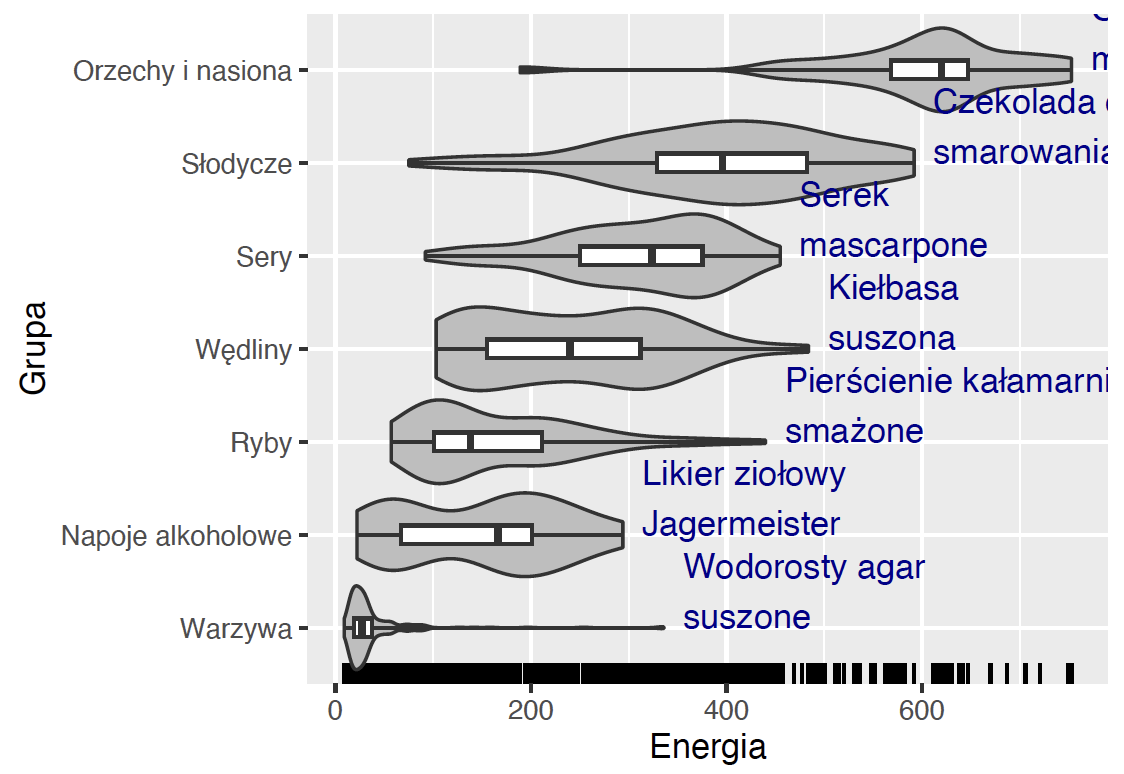
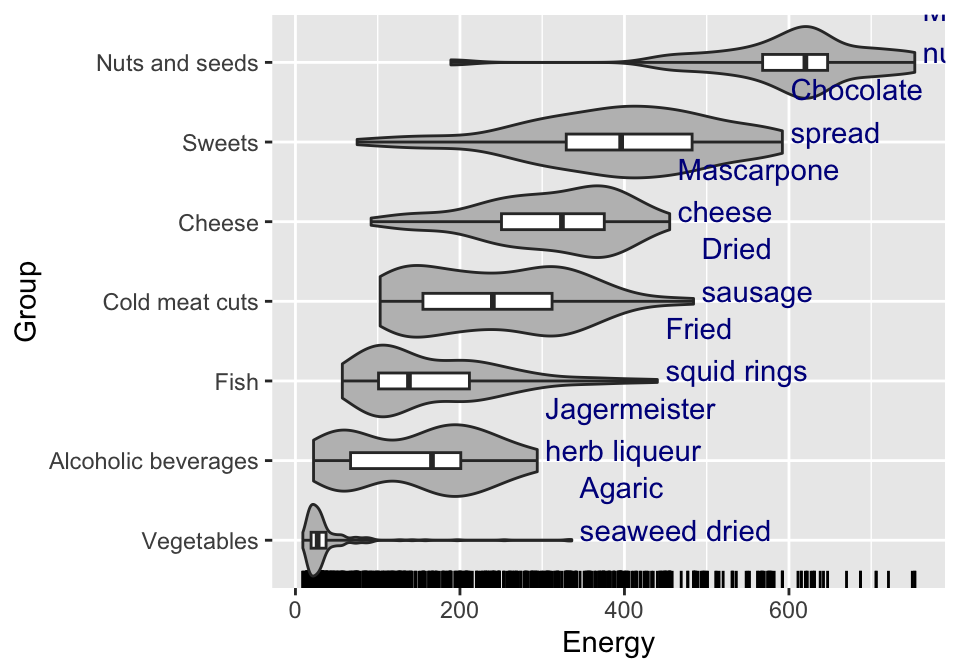
fixed last chapter - food examples are translated to English

diff --git a/docs/cherries.html b/docs/cherries.html
@@ -350,7 +350,7 @@ Neurath, Otto. 1940. <span>“Modern Man in the Making.”</span> <em>Philosophy
 </div></div><p>For more on ISOTYPE language, see the article <a href="http://smarterpoland.pl/index.php/2012/11/mlodzi-xxl-eurostat-a-problem-nadwagi-i-otylosci-odpowiedz-grafika/"><em>Młodzi XXL, Eurostat a problem nadwagi i otyłości</em></a> by Magda Malczynska-Umeda (<strong>only available in Polish</strong>).</p>
 <!-- Więcej o języku ISOTYPE można przeczytać w artykule [*Młodzi XXL, Eurostat a problem nadwagi i otyłości*](http://smarterpoland.pl/index.php/2012/11/mlodzi-xxl-eurostat-a-problem-nadwagi-i-otylosci-odpowiedz-grafika/) przygotowanym przez Magdę Małczyńską-Umeda. -->
 </section>
-<section id="tasks" class="level2 page-columns page-full" data-number="3.6">
+<section id="tasks" class="level2" data-number="3.6">
 <h2 data-number="3.6" class="anchored" data-anchor-id="tasks"><span class="header-section-number">3.6</span> Tasks</h2>
 <p>Would you like to learn more epic graphs creating data visualization stories? You just need to do the following tasks.</p>
 <ol type="1">
@@ -361,13 +361,9 @@ Neurath, Otto. 1940. <span>“Modern Man in the Making.”</span> <em>Philosophy
 <!-- 1. Jednym z ojców graficznej wizualizacji danych był William Playfair. Wynalazł on wiele pomysłowych sposobów prezentacji danych. Dzieło Playfaira zawierające te wykresy było prawdziwym bestsellerem w jego czasach. Zapoznaj się z listą różnych wykresów przedstawionych na jego stronie w [Wikipedii](https://en.wikipedia.org/wiki/William_Playfair). Który z tych wykresów uznasz za najbardziej ciekawy/przełomowy? 
 2. Jednym z najciekawszych wykresów wszech czasów jest wykres pudełkowy zaproponowany przez Johna Tukeya. W artykule [40 years of boxplots](https://vita.had.co.nz/papers/boxplots.pdf) znajduje się ciekawe omówienie różnych modyfikacji tego wykresu. Która z nich jest Twoim zdaniem najbardziej informatywna? 
 3. Bardzo oryginalnym i pomysłowym sposobem prezentacji danych jest wykres łodyga-liście. Możesz o nim przeczytać więcej na odpowiedniej stronie w [Wikipedii](https://en.wikipedia.org/wiki/Stem-and-leaf_display). Czy potrafisz powiedzieć, gdzie najczęściej jest on dzisiaj stosowany? -->
-<p>If you would like to learn more about these and other charts that have played a significant role, you may be interested in the essay <em>Perełki z historii</em> from the book <em>Odkrywać! Ujawniać! Objaśniać!</em> <span class="citation" data-cites="eseje">(<a href="references.html#ref-eseje" role="doc-biblioref">Biecek 2016</a>)</span> (<strong>only available in Polish</strong>).</p>
-<!-- Jeżeli chciałbyś dowiedzieć się więcej o tych i innych wykresach, które odegrały znaczącą rolę, to może zainteresować Cię esej *Perełki z historii* z książki *Odkrywać! Ujawniać! Objaśniać!* -->
 
 
-<div class="no-row-height column-margin column-container"><div id="ref-eseje" class="csl-entry" role="doc-biblioentry">
-Biecek, Przemysław. 2016. <em>Odkrywać! Ujawniać! Objaśniać! Zbiór Esejów o&nbsp;Sztuce Przedstawiania Danych</em>. Fundacja Naukowa SmarterPoland.pl. <a href="http://biecek.pl/Eseje/">http://biecek.pl/Eseje/</a>.
-</div></div>
+
 </section>
 
 </main> <!-- /main -->

diff --git a/docs/mutant.html b/docs/mutant.html
@@ -368,13 +368,9 @@ Tufte, Edward. 2001. <em>The Visual Display of Quantitative Information</em>. Ch
 <!-- 1. Poszukaj w znalezionym raporcie wykresu słupkowego. Czy słupki zaczynają się od zera? Czy ich długości ułatwiają szybsze zrozumienie kluczowych informacji na wykresie?
 2. Poszukaj w znalezionym raporcie wykresu kołowego. Czy wycinki koła odpowiadają częściom całości? Czy patrząc na same wycinki wykresu kołowego, łatwo jest dostrzec, jaką historię ten wykres przedstawia?
 3. Spójrz na wykres na marginesie, przedstawia on średni wzrost kobiet w różnych krajach. Czy dane przedstawione są poprawnie? Jaki jest z nimi problem? -->
-<p>If you would like to learn more about erroneous graphs distorting reality, you may be interested in the essay <em>Info-pomyłka</em> from the book <em>Odkrywać! Ujawniać! Objaśniać!</em> <span class="citation" data-cites="eseje">(<a href="references.html#ref-eseje" role="doc-biblioref">Biecek 2016</a>)</span> (<strong>only available in Polish</strong>).</p>
-<!-- Jeżeli chciałbyś dowiedzieć się więcej o błędnych wykresach zniekształcających rzeczywistość, to może zainteresować Cię esej *Info-pomyłka* z książki *Odkrywać! Ujawniać! Objaśniać!* -->
 
 
-<div class="no-row-height column-margin column-container"><div id="ref-eseje" class="csl-entry" role="doc-biblioentry">
-Biecek, Przemysław. 2016. <em>Odkrywać! Ujawniać! Objaśniać! Zbiór Esejów o&nbsp;Sztuce Przedstawiania Danych</em>. Fundacja Naukowa SmarterPoland.pl. <a href="http://biecek.pl/Eseje/">http://biecek.pl/Eseje/</a>.
-</div></div>
+
 </section>
 
 </main> <!-- /main -->

diff --git a/docs/references.html b/docs/references.html
@@ -196,15 +196,6 @@ div.csl-indent {
 Anscombe, Frank. 1973. <span>“Graphs in Statistical Analysis.”</span>
 <em>The American Statistician</em> 27: 17–21.
 </div>
-<div id="ref-BiecekR2011" class="csl-entry" role="doc-biblioentry">
-Biecek, Przemysław. 2014. <em><span class="nocase">Przewodnik po
-pakiecie R</span>, Wydanie Trzecie</em>. Oficyna Wydawnicza Gewert i
-Skoczylas.
-</div>
-<div id="ref-eseje" class="csl-entry" role="doc-biblioentry">
-———. 2016. <em>Odkrywać! Ujawniać! Objaśniać! Zbiór Esejów o&nbsp;Sztuce
-Przedstawiania Danych</em>. Fundacja Naukowa SmarterPoland.pl. <a href="http://biecek.pl/Eseje/">http://biecek.pl/Eseje/</a>.
-</div>
 <div id="ref-Brewer1994" class="csl-entry" role="doc-biblioentry">
 Brewer, Cynthia. 1994. <span>“Color Use for Mapping and
 Visualization.”</span> <em>Visualization in Modern Cartography</em>,
